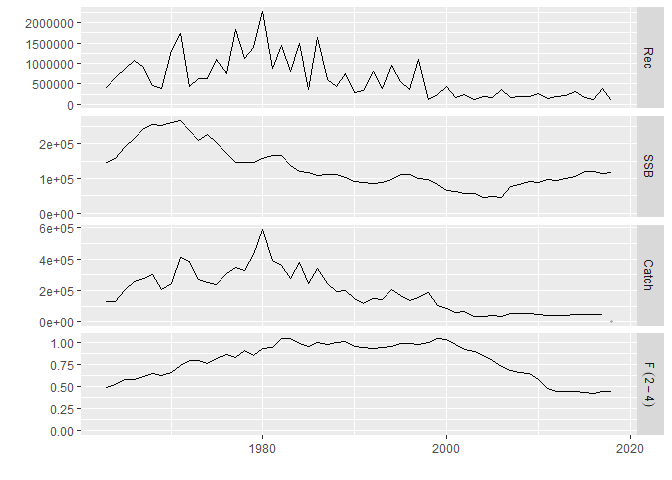
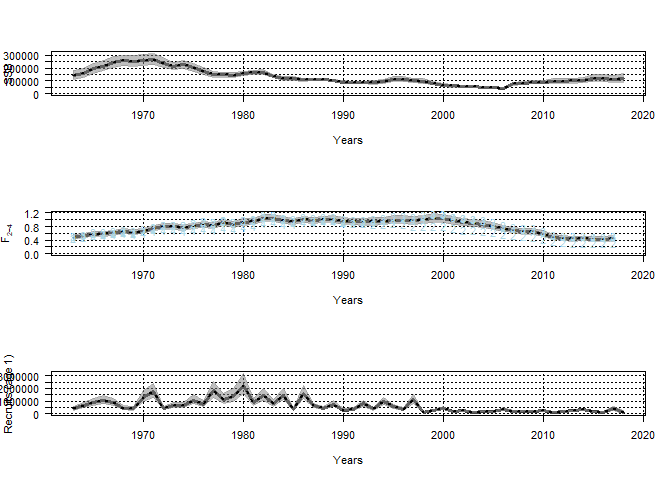
added argument `idx` to SAM_uncertainty() to turn off anything related to indices

diff --git a/readme.md b/readme.md
@@ -12,19 +12,20 @@ model fit into FLR’s `FLStock` (`SAM2FLStock`) and for creating
 simulation replicates based on SAM’s variance-covariance matrix
 (`SAM_uncertainty`).
 
-## Prerequisites
+## Installation
 
-Before installing FLfse, the following non-CRAN R packages should be
-installed:
+The easiest way to install FLfse is as a binary package from r-universe:
 
--   stockassessment (available from
-    <https://github.com/fishfollower/SAM>)
--   FLR packages FLCore and ggplotFL (see
-    <http://www.flr-project.org/#install>)
+``` r
+install.packages('FLfse', repos = c('https://ices-tools-prod.r-universe.dev', 'https://cloud.r-project.org'))
+```
 
-## Install FLfse
+Alternatively, FLfse can be installed from source but requires these
+package dependencies:
 
-FLfse can be installed with
+- stockassessment (available from <https://github.com/fishfollower/SAM>)
+- FLR packages FLCore and ggplotFL (see
+  <http://www.flr-project.org/#install>)
 
 ``` r
 remotes::install_github("shfischer/FLfse/FLfse")
@@ -90,7 +91,7 @@ tail(summary(fit))
 plot(fit)
 ```
 
-![](readme_files/figure-gfm/unnamed-chunk-5-1.png)<!-- --> The resulting
+![](readme_files/figure-gfm/unnamed-chunk-6-1.png)<!-- --> The resulting
 “sam” object can then be converted into an FLStock object:
 
 ``` r
@@ -100,7 +101,7 @@ library(ggplotFL)
 plot(cod4)
 ```
 
-![](readme_files/figure-gfm/unnamed-chunk-6-1.png)<!-- -->
+![](readme_files/figure-gfm/unnamed-chunk-7-1.png)<!-- -->
 
 #### North Sea herring
 
@@ -156,4 +157,4 @@ units(harvest(stk)) <- "f"
 plot(stk, iter = 1:10)
 ```
 
-![](readme_files/figure-gfm/unnamed-chunk-8-1.png)<!-- -->
+![](readme_files/figure-gfm/unnamed-chunk-9-1.png)<!-- -->

diff --git a/NEWS.md b/NEWS.md
@@ -1,6 +1,13 @@
 NEWS
 ================
 
+## Version 1.0.4
+
+Changes to `SAM_uncertainty`
+
+- Added argument `idx` so that anything related to indices can be turned
+  off (`idx = FALSE`)
+
 ## Version 1.0.3
 
 Changes to `SAM_uncertainty`
